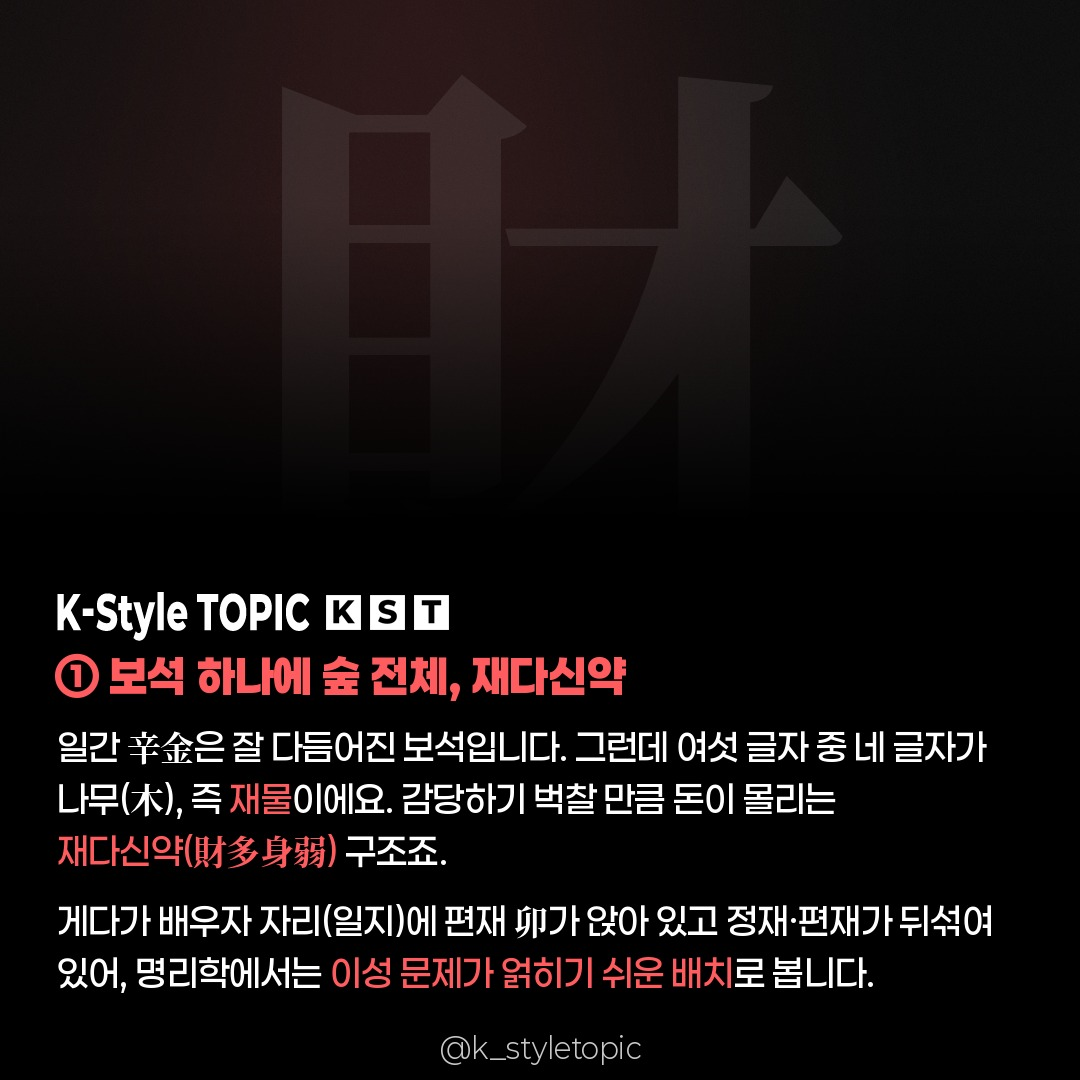
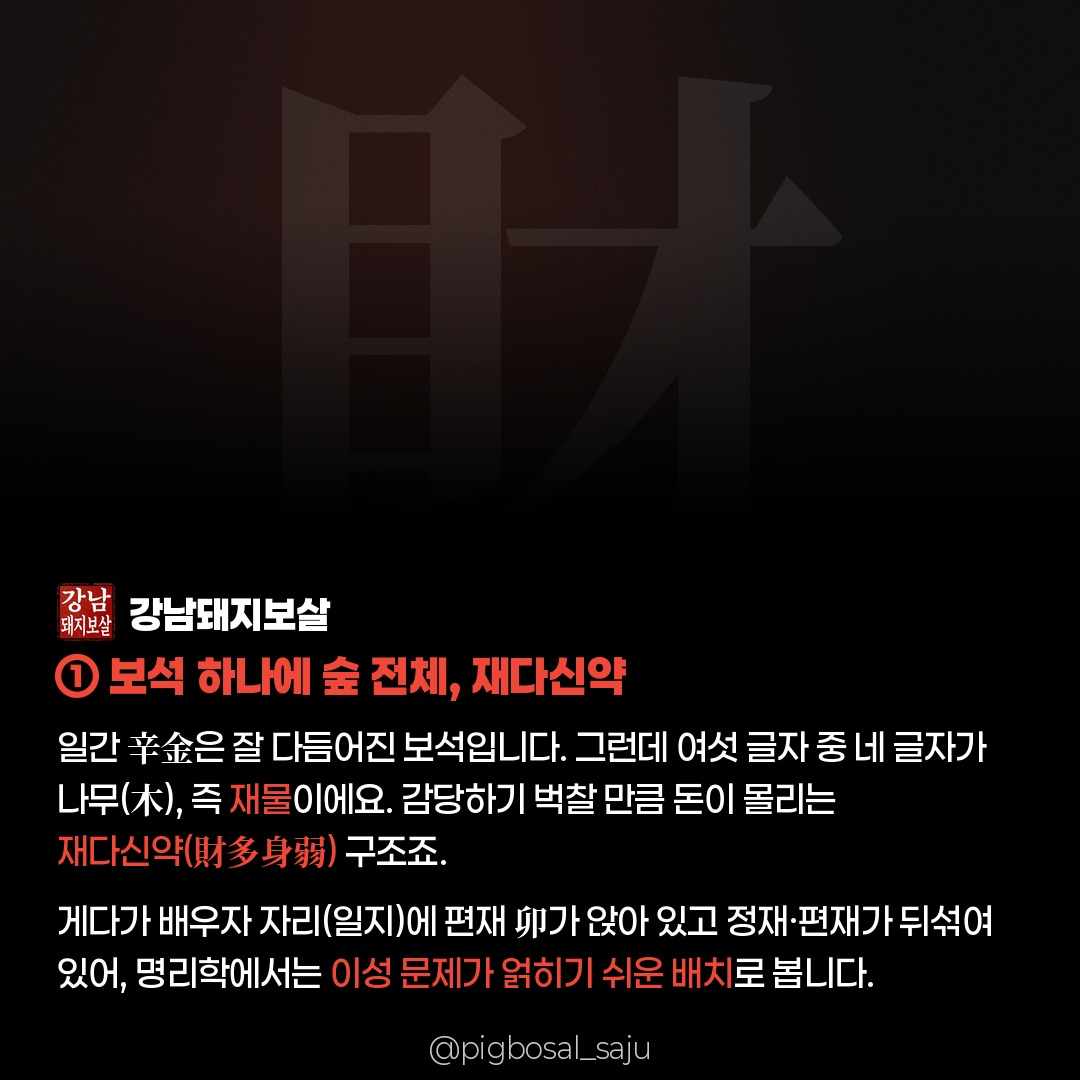
브랜드 교체: 강남돼지보살 도장 로고, @pigbosal_saju, 새 아웃트로
Claude-Session: https://claude.ai/code/session_01R39AKJLY1tLsuohGnm6TD8

diff --git a/scripts/make_brand.py b/scripts/make_brand.py
@@ -1,0 +1,63 @@
+"""브랜드 에셋 생성: 도장 심볼 → 투명 배경 seal.png, 로고 logo.png, 아웃트로 outro.png"""
+import os
+from PIL import Image, ImageDraw, ImageFont, ImageFilter
+
+ROOT = os.path.dirname(os.path.dirname(os.path.abspath(__file__)))
+A = os.path.join(ROOT, 'assets')
+F = lambda w, s: ImageFont.truetype(os.path.join(ROOT, 'fonts', f'Paperlogy-{w}.ttf'), s)
+ACCENT = (240, 72, 56)
+HANDLE = '@pigbosal_saju'
+
+
+def seal():
+    im = Image.open(os.path.join(A, 'src', 'seal_original.png')).convert('RGBA')
+    w, h = im.size
+    # 바깥 밝은 배경만 지우기: 모서리에서 flood fill (안쪽 흰 글씨는 붉은 테두리에 막혀 보존)
+    mask = Image.new('L', (w + 2, h + 2), 0)
+    rgb = im.convert('RGB')
+    light = Image.new('L', (w, h))
+    light.putdata([255 if (r > 200 and g > 170) else 0 for r, g, b in rgb.getdata()])
+    pad = Image.new('L', (w + 2, h + 2), 255); pad.paste(light, (1, 1))
+    ImageDraw.floodfill(pad, (0, 0), 128)
+    outside = pad.crop((1, 1, w + 1, h + 1)).point(lambda v: 255 if v == 128 else 0)
+    outside = outside.filter(ImageFilter.MaxFilter(3))  # 경계 흰 테두리 정리
+    alpha = Image.eval(outside, lambda v: 255 - v).filter(ImageFilter.GaussianBlur(0.6))
+    im.putalpha(alpha)
+    im = im.crop(im.getbbox())
+    im.save(os.path.join(A, 'seal.png'))
+    return im
+
+
+def logo(s):
+    sz = 58
+    sm = s.resize((sz, round(s.height * sz / s.width)), Image.LANCZOS)
+    f = F('9Black', 38)
+    tw = int(f.getlength('강남돼지보살'))
+    lg = Image.new('RGBA', (sz + 14 + tw + 4, sm.height), (0, 0, 0, 0))
+    lg.alpha_composite(sm, (0, 0))
+    ImageDraw.Draw(lg).text((sz + 14, sm.height / 2 + 2), '강남돼지보살', font=f, fill='white', anchor='lm')
+    lg.save(os.path.join(A, 'logo.png'))
+
+
+def outro(s):
+    W = 1080
+    im = Image.new('RGBA', (W, W), (12, 12, 12, 255))
+    glow = Image.new('RGBA', (W, W), (0, 0, 0, 0))
+    ImageDraw.Draw(glow).ellipse((190, 60, 890, 700), fill=ACCENT + (55,))
+    im.alpha_composite(glow.filter(ImageFilter.GaussianBlur(150)))
+    big = s.resize((380, round(s.height * 380 / s.width)), Image.LANCZOS)
+    im.alpha_composite(big, ((W - big.width) // 2, 150))
+    d = ImageDraw.Draw(im)
+    d.text((W / 2, 640), '유명인의 사주,', font=F('9Black', 56), fill='white', anchor='ms')
+    d.text((W / 2, 715), '돼지보살이 풀어드립니다', font=F('9Black', 56), fill=ACCENT, anchor='ms')
+    # 팔로우 버튼
+    bw, bh, by = 520, 92, 790
+    d.rounded_rectangle(((W - bw) / 2, by, (W + bw) / 2, by + bh), bh / 2, fill=ACCENT)
+    d.text((W / 2, by + bh / 2 + 2), f'{HANDLE}  팔로우', font=F('7Bold', 36), fill='white', anchor='mm')
+    d.text((W / 2, 945), '다음 사주풀이를 가장 먼저 받아보세요', font=F('4Regular', 30), fill=(200, 200, 200), anchor='ms')
+    d.text((W / 2, 1059), HANDLE, font=F('3Light', 28), fill=(200, 200, 200), anchor='ms')
+    im.convert('RGB').save(os.path.join(A, 'outro.png'))
+
+
+if __name__ == '__main__':
+    s = seal(); logo(s); outro(s); print('brand assets ok')

diff --git a/cardgen/render_cards.py b/cardgen/render_cards.py
@@ -11,7 +11,7 @@ HANJA_FONT = os.environ.get('HANJA_FONT', '/usr/share/fonts/opentype/noto/NotoSe
 HANJA_IDX = 1  # KR face inside the ttc (fallback-safe for hanja)
 
 W = H = 1080
-RED = (255, 92, 96)
+RED = (240, 72, 56)  # 도장 심볼과 어울리는 주홍
 WHITE = (255, 255, 255)
 GRAY = (200, 200, 200)
 ELEM = {  # 오행 색
@@ -146,7 +146,7 @@ def logo(im, x, y, center=False):
     return lg.height
 
 
-def handle(d, text='@k_styletopic'):
+def handle(d, text='@pigbosal_saju'):
     d.text((W / 2, 1059), text, font=F('3Light', 28), fill=GRAY, anchor='ms')
 
 
@@ -189,7 +189,7 @@ def slide_body(s, c, idx):
         y -= 64
         hy = y
     y_logo = (hy - 22) if s.get('heading') else (y - 20)
-    logo(im, 57, y_logo - 49)
+    logo(im, 57, y_logo - Image.open(os.path.join(ASSET, 'logo.png')).height)
     if s.get('heading'):
         draw_rich(d, 55, hy + 30, parse_rich(s['heading']), F('9Black', 44), 44, base=RED, hi=WHITE)
         y = hy + 64
